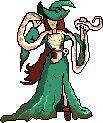
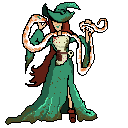
Rhi's tankard for the tavern node; chest (32x32) and Bog Witch (128x128) at full canvas size

diff --git a/css/style.css b/css/style.css
@@ -666,7 +666,7 @@ button.it.sel{border-color:var(--gold)}
 .vp>.umenu.dl{left:10px}.vp>.umenu.dr{right:10px}
 /* hand-drawn event figures laid over the event scene: sizes are fractions of the 160x90 scene, so pixels match it */
 .ev-fig{position:absolute;bottom:0;image-rendering:pixelated;pointer-events:none}
-.ev-witch{left:5%;width:30%}
+.ev-witch{left:4%;width:37%}
 .ev-well{left:34%;width:32%;bottom:12%}
 .ev-anvil{left:35%;width:30%;bottom:10%}
 .ev-altar{left:34%;width:32%;bottom:14%}

diff --git a/art/CREDITS.md b/art/CREDITS.md
@@ -2,7 +2,7 @@
 
 - **Raven Fantasy Icons** by [Clockwork Raven](https://clockworkraven.itch.io/raven-fantasy-icons) (free version). Used for relic, item, weapon, gear and tavern-meal icons in `art/relics/`, `art/icons/`, `art/meals/` and `art/ui/` (coin, mug). Commercial use allowed; the icons must not be redistributed or sold as an asset pack on their own, so only the individual icons the game uses are kept here. Exception: the Horn of Plenty relic (`art/relics/plenty.png`) is an original horn drawn for the game.
 - **Pixel Isometric Tiles** by [crabling](https://scrabling.itch.io/pixel-isometric-tiles) (CC BY 4.0). Used for the boulder prop (`art/tiles/boulder.png`) and the water and ice ground (`art/tiles/water.png`, `art/tiles/ice.png`, the top faces flattened into square textures). Only the tiles the game uses are kept here.
-- Campfire (`art/nodes/rest.png`), chests (`art/nodes/treasure.png`, `art/scenes/chest.png`) and the Bog Witch (`art/scenes/witch.png`) drawn by Rhi. Also the Hollow Bear and Krondis bosses (`art/bosses/hollow-bear.png`, `art/bosses/krondis.png`) the Bog Witch's hut and cauldron (`art/scenes/witch-hut.png`, `art/scenes/cauldron.png`), the Fallen Star's meteor (`art/scenes/meteor.png`) and the tavern mug on the node map (`art/nodes/tavern.png`).
+- Campfire (`art/nodes/rest.png`), chests (`art/nodes/treasure.png`, `art/scenes/chest.png`) and the Bog Witch (`art/scenes/witch.png`) drawn by Rhi. Also the Hollow Bear and Krondis bosses (`art/bosses/hollow-bear.png`, `art/bosses/krondis.png`) the Bog Witch's hut and cauldron (`art/scenes/witch-hut.png`, `art/scenes/cauldron.png`), the Fallen Star's meteor (`art/scenes/meteor.png`) and the tankard on the node map (`art/nodes/tavern.png`).
 - **Dungeon Crawl Stone Soup** tiles ([crawl/crawl](https://github.com/crawl/crawl), CC0). Rook's dagger is its `item/weapon/dagger.png`, stored as pixel data in `WPN_ART` in `js/09b-battle-rig.js`.
 - **Dark Ages UI - Pixel Art Asset Pack** v1.0 by [Hypnobius](https://hypnobius.itch.io/dark-ages-ui). Used for the ornate box frame (`art/ui/frame.png`), the node map's scroll thumbs (`art/ui/scroll-v.png`, `scroll-h.png`) and the Ascension arrows (`art/ui/arrow-l.png`, `arrow-r.png`, cut from the ends of the horizontal bar). Only the pieces the game uses are kept here.
 - Sunless Isle rocks, rubble, skulls, dead tree and crystal (`art/props/sunless-*.png`) from [CraftPix](https://craftpix.net) ([licence](https://craftpix.net/file-licenses/): free for commercial use in games, no credit required; the art must not be resold or redistributed as an asset pack, so only the props the game uses are kept here).
